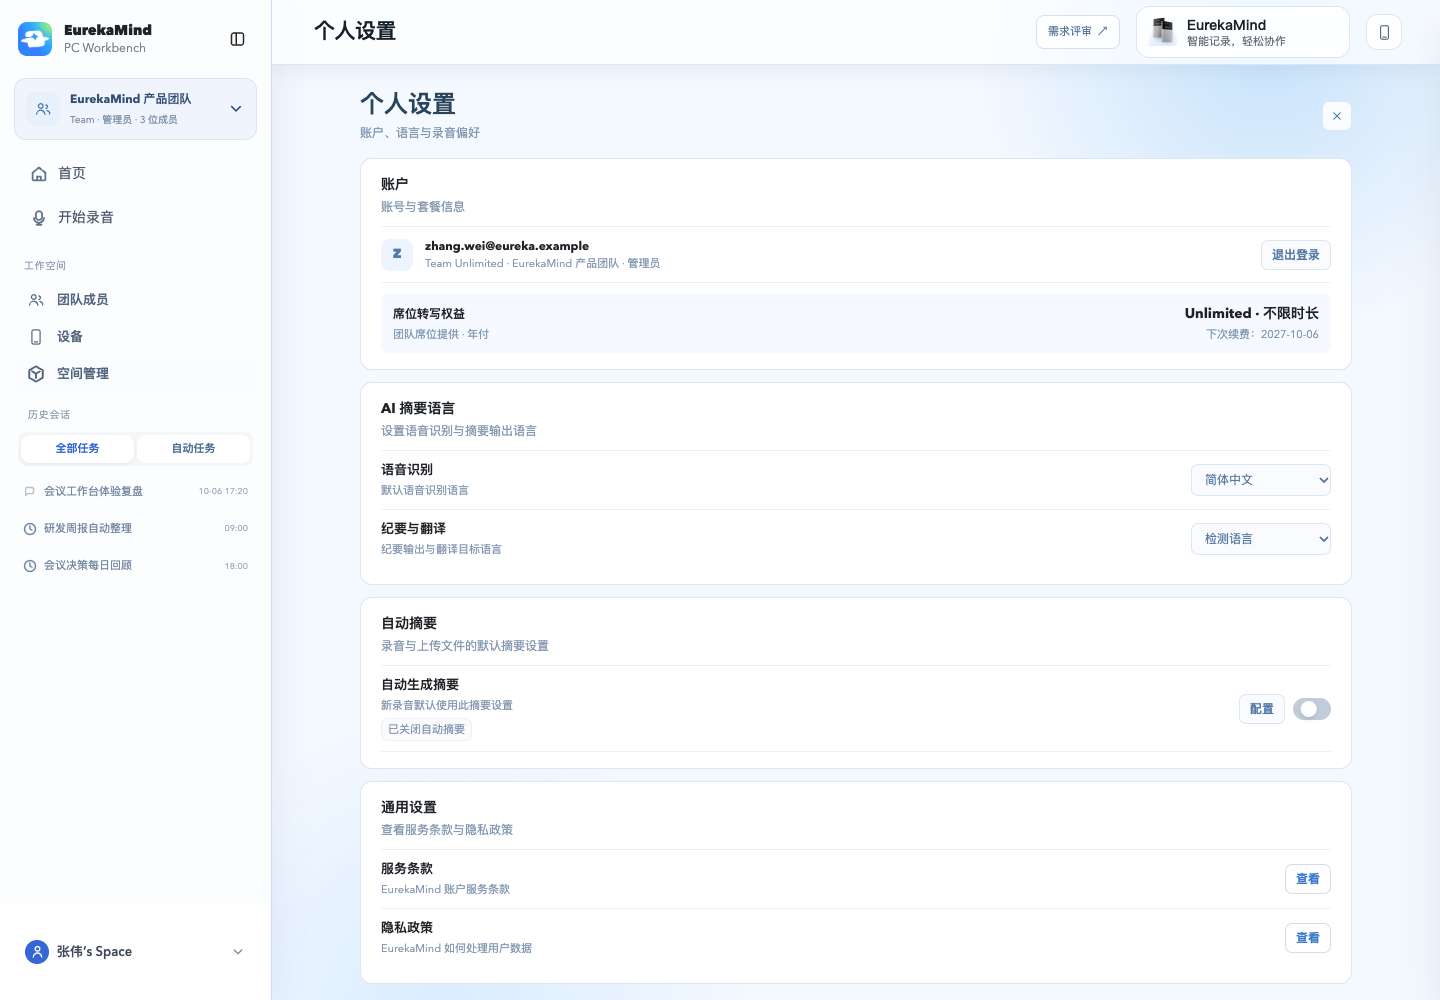
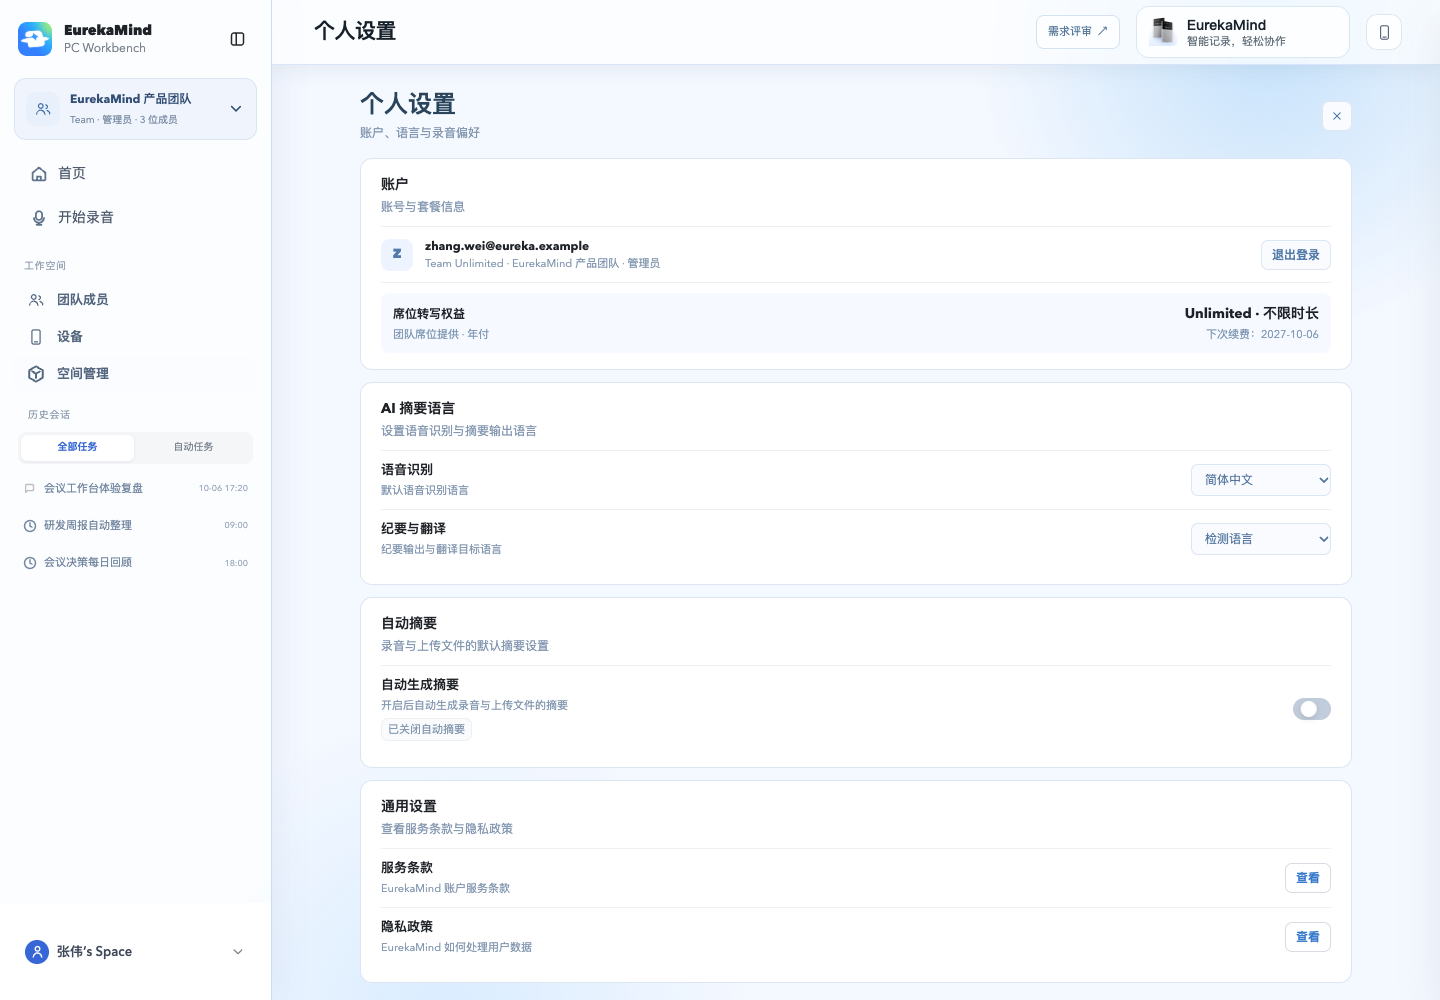
Remove automatic summary configuration from account settings

diff --git a/src/prototype/one-to-one-reference/team-only-app.html b/src/prototype/one-to-one-reference/team-only-app.html
@@ -4993,19 +4993,10 @@
         .settings-language-count { display:inline-flex; min-width:34px; height:28px; align-items:center; justify-content:center; padding:0 8px; border-radius:15px; color:#67717f; background:#f1f4f8; font-size:11px; font-weight:700; }
         .settings-language-select { min-width:150px; height:32px; padding:0 8px; border:1px solid #d9dde3; border-radius:7px; color:#46515e; background:#fff; font-size:11px; }
         .settings-summary-chip { display:block; width:max-content; max-width:100%; margin-top:3px; padding:6px 9px; overflow:hidden; border:1px solid #edf0f3; border-radius:7px; color:#59616b; background:#fafbfc; font-size:10px; text-overflow:ellipsis; white-space:nowrap; }
-        .settings-configure { min-height:30px; padding:0 10px; border:0; border-radius:7px; color:#2684ff; background:#edf6ff; cursor:pointer; font-size:10px; font-weight:650; }
         .settings-switch { display:inline-flex; width:54px; height:30px; align-items:center; padding:4px; border:1px solid #cfd6df; border-radius:18px; background:#eef1f5; cursor:pointer; }
         .settings-switch i { width:20px; height:20px; border-radius:50%; background:#fff; box-shadow:0 2px 6px #1f23282e; transition:transform .16s ease; }
         .settings-switch[aria-checked="true"] { border-color:#165dff; background:#165dff; }
         .settings-switch[aria-checked="true"] i { transform:translateX(22px); }
-        .settings-config-panel { display:grid; gap:9px; margin:0 14px 12px; padding:10px; border:1px solid #e2e7ef; border-radius:8px; background:#fafbfc; }
-        .settings-config-panel[hidden] { display:none; }
-        .settings-config-panel label { display:grid; gap:5px; color:#596477; font-size:10px; }
-        .settings-config-panel .settings-voiceprint-row { display:grid; grid-template-columns:minmax(0,1fr) auto; align-items:center; gap:2px 10px; }
-        .settings-config-copy { grid-column:1; color:#7a828c; font-size:9px; line-height:14px; }
-        .settings-config-panel .settings-voiceprint-row .settings-switch { grid-column:2; grid-row:1 / span 2; }
-        .settings-config-panel select { height:32px; border:1px solid #d9dde3; border-radius:7px; background:#fff; color:#46515e; font-size:10px; }
-        .settings-save { justify-self:end; min-height:30px; padding:0 11px; border:0; border-radius:7px; color:#fff; background:linear-gradient(135deg,#3e72f2,#55c5e2); box-shadow:0 6px 14px rgba(55,102,214,.16); cursor:pointer; font-size:10px; }
         .settings-link { min-height:30px; padding:0 10px; border:1px solid #d9dde3; border-radius:7px; color:#1f2328; background:#fff; font-size:10px; font-weight:650; line-height:28px; text-decoration:none; }
         @media (max-width:600px) { .settings-float-row { align-items:flex-start; flex-direction:column; } .settings-language-control { width:100%; justify-content:space-between; } .settings-language-select { flex:1; } }
         /* Eureka team sidebar: one shared row contract for every first-level entry. */
@@ -5089,7 +5080,7 @@
           <header class="settings-float-toolbar"><div class="settings-float-toolbar-copy"><strong>个人设置</strong><span>账户、语言与录音偏好</span></div><button class="settings-popover-close" type="button" data-settings-close aria-label="返回当前空间首页"><svg class="icon"><use href="#ico-x"/></svg></button></header>
           <section class="settings-float-section"><div class="settings-float-head"><h4>账户</h4><p>账号与套餐信息</p></div><div class="settings-profile"><span class="settings-avatar">Z</span><span><strong>zw08250727@gmail.com</strong><small>免费版 · 个人工作台</small></span><button class="settings-logout" type="button" data-settings-action="logout">退出登录</button></div><div class="settings-usage"><div class="settings-usage-top"><div><strong>转写时长</strong><div class="settings-usage-copy">剩余 99999 分钟，共 99999 分钟</div></div><b>0%</b></div><div class="settings-progress"><i></i></div><div class="settings-usage-meta"><span>已使用 0 分钟</span><span>剩余 99999 分钟</span></div></div></section>
           <section class="settings-float-section"><div class="settings-float-head"><h4>AI 摘要语言</h4><p>设置语音识别与摘要输出语言</p></div><div class="settings-float-row"><div class="settings-row-copy"><strong>语音识别</strong><span>默认语音识别语言</span></div><div class="settings-language-control"><span class="settings-language-count">18</span><select class="settings-language-select" data-settings-language="asr"><option value="en">英语</option><option value="zh-Hans">简体中文</option><option value="zh-Hant">繁体中文</option></select></div></div><div class="settings-float-row"><div class="settings-row-copy"><strong>纪要与翻译</strong><span>纪要输出与翻译目标语言</span></div><div class="settings-language-control"><span class="settings-language-count">156</span><select class="settings-language-select" data-settings-language="notes"><option value="detected">检测语言</option><option value="en">英语</option><option value="zh-Hans">简体中文</option></select></div></div></section>
-          <section class="settings-float-section"><div class="settings-float-head"><h4>自动摘要</h4><p>录音与上传文件的默认摘要设置</p></div><div class="settings-float-row"><div class="settings-row-copy"><strong>自动生成摘要</strong><span data-settings-summary-hint>新录音默认使用此摘要设置</span><span class="settings-summary-chip" data-settings-summary-copy>尚未设置默认偏好</span></div><div class="settings-language-control"><button class="settings-configure" type="button" data-settings-action="configure">配置</button><button class="settings-switch" type="button" role="switch" aria-checked="true" data-settings-action="toggle-summary"><i></i></button></div></div><div class="settings-config-panel" data-settings-config hidden><label>摘要语言<select data-settings-summary-language><option value="detected">检测语言</option><option value="en">英语</option><option value="zh-Hans">简体中文</option></select></label><label>详细程度<select data-settings-summary-detail><option>标准</option><option>精简</option><option>详细</option></select></label><button class="settings-save" type="button" data-settings-action="save-summary">保存默认设置</button></div></section>
+          <section class="settings-float-section"><div class="settings-float-head"><h4>自动摘要</h4><p>录音与上传文件的默认摘要设置</p></div><div class="settings-float-row"><div class="settings-row-copy"><strong>自动生成摘要</strong><span data-settings-summary-hint>开启后自动生成录音与上传文件的摘要</span><span class="settings-summary-chip" data-settings-summary-copy>已开启自动摘要</span></div><div class="settings-language-control"><button class="settings-switch" type="button" role="switch" aria-checked="true" data-settings-action="toggle-summary"><i></i></button></div></div></section>
           <section class="settings-float-section"><div class="settings-float-head"><h4>通用设置</h4><p>查看服务条款与隐私政策</p></div><div class="settings-float-row"><div class="settings-row-copy"><strong>服务条款</strong><span>EurekaMind 账户服务条款</span></div><a class="settings-link" href="https://docs.google.com/document/d/1vvfqgZQDRrdP6dsCJcZFnVmJzjCiojQPqEkJ1gpDXn8/edit?usp=sharing" target="_blank" rel="noreferrer">查看</a></div><div class="settings-float-row"><div class="settings-row-copy"><strong>隐私政策</strong><span>EurekaMind 如何处理用户数据</span></div><a class="settings-link" href="https://docs.google.com/document/d/19zLgiDFfT-ZbY5CSBKqVq6R2zZXUCmNke-k_96XjlKo/edit?usp=sharing" target="_blank" rel="noreferrer">查看</a></div></section>
         </div>`;
         let drawer = document.querySelector("#personal-settings");
@@ -5099,15 +5090,10 @@
         showMainView("personal-settings", {silent:true});
         document.querySelector("#page-crumb").textContent="个人设置";
         document.querySelector("#user-card")?.setAttribute("aria-expanded", "false");
-        const settingsConfig = drawer?.querySelector("[data-settings-config]");
-        settingsConfig?.querySelector("label")?.insertAdjacentHTML("afterend", '<label>摘要模板<select data-settings-summary-template><option value="meeting">会议纪要</option><option value="brief">简洁摘要</option><option value="action">行动项优先</option></select></label><label class="settings-voiceprint-row">声纹识别<span class="settings-config-copy">在支持声纹时区分不同说话人。</span><button class="settings-switch" type="button" role="switch" aria-checked="false" data-settings-voiceprint><i></i></button></label>');
         drawer?.querySelector("[data-settings-close]")?.addEventListener("click", () => { if(document.body.dataset.wsType === "team") window.EurekaSpaces.open("overview"); else showMainView("home", {silent:true}); });
         drawer?.querySelectorAll("[data-settings-language]").forEach((select) => select.addEventListener("change", () => { localStorage.setItem(`eurekamind:settings:${select.dataset.settingsLanguage}`, select.value); showToast("语言设置已保存"); }));
         drawer?.querySelector('[data-settings-action="logout"]')?.addEventListener("click", () => showToast("原型演示：退出登录需要二次确认"));
-        drawer?.querySelector('[data-settings-action="configure"]')?.addEventListener("click", () => { const panel = drawer.querySelector("[data-settings-config]"); if (panel) panel.hidden = !panel.hidden; });
-        drawer?.querySelector('[data-settings-action="toggle-summary"]')?.addEventListener("click", (event) => { const button = event.currentTarget; const enabled = button.getAttribute("aria-checked") === "true"; button.setAttribute("aria-checked", String(!enabled)); const hint = drawer.querySelector("[data-settings-summary-hint]"); const copy = drawer.querySelector("[data-settings-summary-copy]"); if (hint) hint.textContent = enabled ? "关闭后，每次录音都会重新确认摘要偏好" : "新录音默认使用此摘要设置"; if (copy) copy.textContent = enabled ? "尚未设置默认偏好" : "已开启自动摘要"; showToast(enabled ? "自动摘要已关闭" : "自动摘要已开启"); });
-        drawer?.querySelector('[data-settings-action="save-summary"]')?.addEventListener("click", () => { const panel = drawer.querySelector("[data-settings-config]"); if (panel) panel.hidden = true; const copy = drawer.querySelector("[data-settings-summary-copy]"); if (copy) copy.textContent = "已保存默认摘要偏好"; showToast("默认摘要设置已保存"); });
-        drawer?.querySelector('[data-settings-voiceprint]')?.addEventListener("click", (event) => { const button = event.currentTarget; const enabled = button.getAttribute("aria-checked") === "true"; button.setAttribute("aria-checked", String(!enabled)); showToast(!enabled ? "声纹识别已开启" : "声纹识别已关闭"); });
+        drawer?.querySelector('[data-settings-action="toggle-summary"]')?.addEventListener("click", (event) => { const button = event.currentTarget; const enabled = button.getAttribute("aria-checked") === "true"; button.setAttribute("aria-checked", String(!enabled)); const hint = drawer.querySelector("[data-settings-summary-hint]"); const copy = drawer.querySelector("[data-settings-summary-copy]"); if (hint) hint.textContent = "开启后自动生成录音与上传文件的摘要"; if (copy) copy.textContent = enabled ? "已关闭自动摘要" : "已开启自动摘要"; showToast(enabled ? "自动摘要已关闭" : "自动摘要已开启"); });
       };
       window.openUserSettings = openUserSettings;
       document.querySelector("#user-menu")?.addEventListener("click", (event) => { const item = event.target.closest('[data-profile-action="settings"]'); if (!item) return; event.preventDefault(); event.stopImmediatePropagation(); closeUserMenu(); openUserSettings(); }, true);
@@ -5339,7 +5325,7 @@
 <script src="assets/recording-upload.js?v=1"></script>
 <link rel="stylesheet" href="assets/personal-assets.css?v=4">
 <script src="assets/personal-assets-model.js?v=2"></script>
-<script src="assets/personal-assets-ui.js?v=9"></script>
+<script src="assets/personal-assets-ui.js?v=10"></script>
 <link rel="stylesheet" href="assets/thoughts.css?v=3">
 <script src="assets/thoughts-model.js?v=1"></script>
 <script src="assets/thoughts-ui.js?v=2"></script>

diff --git a/tests/e2e/account-settings.spec.ts b/tests/e2e/account-settings.spec.ts
@@ -1,18 +1,18 @@
 import {test,expect,Page} from '@playwright/test';
 test.use({channel:process.env.PLAYWRIGHT_CHANNEL||undefined,viewport:{width:1440,height:1000}});
 const url='/prototype/one-to-one-reference/team-only-app.html?edition=personal&personal=1';
-async function settings(page:Page){await page.locator('#user-card').click();await expect(page.locator('#ws-menu [data-ws-action=settings]')).toHaveText('个人设置');await page.locator('#ws-menu [data-ws-action=settings]').click();await expect(page.locator('#personal-settings')).toBeVisible();await expect(page.locator('#ws-view')).toBeHidden();await expect(page.locator('#page-crumb')).toHaveText('个人设置');}
+async function settings(page:Page){await page.locator('#user-card').click();await expect(page.locator('#ws-menu [data-ws-action=settings]')).toHaveText('个人设置');await page.locator('#ws-menu [data-ws-action=settings]').click();await expect(page.locator('#personal-settings')).toBeVisible();await expect(page.locator('#ws-view')).toBeHidden();await expect(page.locator('#page-crumb')).toHaveText('个人设置');await expect(page.locator('[data-settings-action=configure], [data-settings-config]')).toHaveCount(0);}
 async function switchTo(page:Page,id:string){await page.locator('#ws-switcher').click();await page.locator(`#ws-menu [data-ws-action=switch][data-value=${id}]`).click();}
 async function capture(page:Page,name:string){if(process.env.PRD_CAPTURE){await expect(page.locator('#ws-toast')).not.toBeVisible();await expect(page.locator('#toast')).not.toBeVisible();await page.screenshot({path:`src/prototype/prd/images/${name}.png`});}}
 test('account preferences share one functional page across Personal, Team admin and member',async({page})=>{
- const errors:string[]=[];page.on('pageerror',e=>errors.push(e.message));await page.goto(url);await settings(page);await capture(page,'personal-settings');await page.locator('[data-settings-language=asr]').selectOption('zh-Hans');await page.locator('[data-settings-action=toggle-summary]').click();await page.locator('[data-settings-action=configure]').click();await page.locator('[data-settings-summary-template]').selectOption('action');await page.locator('[data-settings-voiceprint]').click();await page.locator('[data-settings-action=save-summary]').click();
+ const errors:string[]=[];page.on('pageerror',e=>errors.push(e.message));await page.goto(url);await settings(page);await capture(page,'personal-settings');await page.locator('[data-settings-language=asr]').selectOption('zh-Hans');await page.locator('[data-settings-action=toggle-summary]').click();await expect(page.locator('[data-settings-summary-copy]')).toHaveText('已关闭自动摘要');
  await switchTo(page,'team-eureka');await page.locator('#ws-team-nav [data-value=billing]').click();await page.locator('.ws-tabs [data-value=settings]').click();await expect(page.locator('.ws-tabs')).toContainText('空间设置');await expect(page.locator('.ws-tabs')).not.toContainText('通用设置');await expect(page.locator('#ws-view h1')).toHaveText('空间设置');await capture(page,'team-settings');const name=await page.locator('[data-ws-form=settings] [name=name]').inputValue();
- await settings(page);await expect(page.locator('#ws-switcher')).toContainText('EurekaMind 产品团队');await expect(page.locator('[data-settings-language=asr]')).toHaveValue('zh-Hans');await expect(page.locator('[data-settings-action=toggle-summary]')).toHaveAttribute('aria-checked','false');await expect(page.locator('#personal-settings')).not.toContainText('工作空间名称');await capture(page,'team-personal-settings');await page.locator('[data-settings-action=configure]').click();await expect(page.locator('[data-settings-summary-template]')).toHaveValue('action');await expect(page.locator('[data-settings-voiceprint]')).toHaveAttribute('aria-checked','true');await page.locator('[data-settings-language=asr]').selectOption('en');await page.locator('[data-settings-close]').click();await expect(page.locator('#ws-view')).toBeVisible();await expect(page.locator('#personal-settings')).toBeHidden();await expect(page.locator('#ws-view')).toContainText('团队会议');
+ await settings(page);await expect(page.locator('#ws-switcher')).toContainText('EurekaMind 产品团队');await expect(page.locator('[data-settings-language=asr]')).toHaveValue('zh-Hans');await expect(page.locator('[data-settings-action=toggle-summary]')).toHaveAttribute('aria-checked','false');await expect(page.locator('#personal-settings')).not.toContainText('工作空间名称');await capture(page,'team-personal-settings');await page.locator('[data-settings-language=asr]').selectOption('en');await page.locator('[data-settings-close]').click();await expect(page.locator('#ws-view')).toBeVisible();await expect(page.locator('#personal-settings')).toBeHidden();await expect(page.locator('#ws-view')).toContainText('团队会议');
  await page.locator('#ws-team-nav [data-value=billing]').click();await page.locator('.ws-tabs [data-value=settings]').click();await expect(page.locator('[data-ws-form=settings] [name=name]')).toHaveValue(name);
- await switchTo(page,'team-design');await expect(page.locator('#ws-team-nav')).not.toContainText('空间管理');await settings(page);await expect(page.locator('[data-settings-language=asr]')).toHaveValue('en');await page.locator('[data-settings-language=notes]').selectOption('zh-Hans');await page.reload();await settings(page);await expect(page.locator('[data-settings-language=notes]')).toHaveValue('zh-Hans');await page.locator('[data-settings-close]').click();await expect(page.locator('#ws-view')).toBeVisible();await expect(page.locator('#ws-switcher')).toContainText('设计共创空间');await switchTo(page,'personal');await settings(page);await expect(page.locator('[data-settings-language=notes]')).toHaveValue('zh-Hans');await page.locator('[data-settings-close]').click();await expect(page.locator('#today-assets-grid')).toBeVisible();expect(errors).toEqual([]);
+ await switchTo(page,'team-design');await expect(page.locator('#ws-team-nav')).not.toContainText('空间管理');await settings(page);await expect(page.locator('[data-settings-language=asr]')).toHaveValue('en');await page.locator('[data-settings-language=notes]').selectOption('zh-Hans');await page.reload();await settings(page);await expect(page.locator('[data-settings-action=toggle-summary]')).toHaveAttribute('aria-checked','false');await expect(page.locator('[data-settings-language=notes]')).toHaveValue('zh-Hans');await page.locator('[data-settings-close]').click();await expect(page.locator('#ws-view')).toBeVisible();await expect(page.locator('#ws-switcher')).toContainText('设计共创空间');await switchTo(page,'personal');await settings(page);await expect(page.locator('[data-settings-language=notes]')).toHaveValue('zh-Hans');await page.locator('[data-settings-close]').click();await expect(page.locator('#today-assets-grid')).toBeVisible();expect(errors).toEqual([]);
 });
 test('compact preferences remain usable at desktop and phone widths in either workspace',async({page})=>{
- await page.goto(url);for(const space of ['personal','team-eureka']){await switchTo(page,space);await settings(page);await page.locator('[data-settings-action=configure]').click();for(const width of [1440,1024,390]){await page.setViewportSize({width,height:1000});expect(await page.evaluate(()=>document.documentElement.scrollWidth)).toBeLessThanOrEqual(width+1);const panel=page.locator('#personal-settings');expect(await panel.evaluate(el=>el.scrollWidth<=el.clientWidth)).toBeTruthy();await page.locator('[data-settings-summary-detail]').selectOption('精简');await expect(page.locator('[data-settings-summary-detail]')).toHaveValue('精简');await page.locator('[data-settings-close]').scrollIntoViewIfNeeded();await expect(page.locator('[data-settings-close]')).toBeInViewport();}await page.setViewportSize({width:1440,height:1000});}
+ await page.goto(url);for(const space of ['personal','team-eureka']){await switchTo(page,space);await settings(page);for(const width of [1440,1024,390]){await page.setViewportSize({width,height:1000});expect(await page.evaluate(()=>document.documentElement.scrollWidth)).toBeLessThanOrEqual(width+1);const panel=page.locator('#personal-settings');expect(await panel.evaluate(el=>el.scrollWidth<=el.clientWidth)).toBeTruthy();await page.locator('[data-settings-language=notes]').selectOption('en');await expect(page.locator('[data-settings-language=notes]')).toHaveValue('en');await page.locator('[data-settings-close]').scrollIntoViewIfNeeded();await expect(page.locator('[data-settings-close]')).toBeInViewport();}await page.setViewportSize({width:1440,height:1000});}
 });
 test('account plan follows the active team, subscription status and personal workspace',async({page})=>{
  await page.goto(url);await settings(page);await expect(page.locator('.settings-profile small')).toHaveText('标准版 · 个人工作空间');await expect(page.locator('.settings-usage')).toContainText('400 分钟');

diff --git a/src/prototype/one-to-one-reference/assets/personal-assets-ui.js b/src/prototype/one-to-one-reference/assets/personal-assets-ui.js
@@ -135,10 +135,10 @@
     }
     $('.settings-float-toolbar-copy strong',page).textContent='个人设置';$('.settings-float-toolbar-copy span',page).textContent='账户、语言与录音偏好';
     $('[data-settings-close]',page).setAttribute('aria-label','返回当前空间首页');
-    const attrs=['language','summary-language','summary-detail','summary-template'];
+    const attrs=['language'];
     for(const attr of attrs)$$(`[data-settings-${attr}]`,page).forEach(el=>{const key=attr==='language'?el.dataset.settingsLanguage:attr;let val=prefs[key];if(val===undefined&&attr==='language')val=localStorage.getItem('eurekamind:settings:'+key);if(val!==undefined&&val!==null)el.value=val;el.addEventListener('change',event=>{event.stopImmediatePropagation();try{repo.settings({[key]:el.value});showToast('偏好已保存');}catch(e){showToast(e.message);}},{capture:true});});
-    for(const [sel,key,def] of [['[data-settings-action="toggle-summary"]','autoSummary',true],['[data-settings-voiceprint]','voiceprint',false]]){const el=$(sel,page);el.setAttribute('aria-checked',String(prefs[key]??def));el.setAttribute('aria-label',key==='autoSummary'?'自动生成摘要':'声纹识别');el.addEventListener('click',()=>{try{repo.settings({[key]:el.getAttribute('aria-checked')==='true'});}catch(e){el.setAttribute('aria-checked',String(prefs[key]??def));showToast(e.message);}});}
-    const summary=$('[data-settings-summary-copy]',page);if(summary)summary.textContent=prefs.autoSummary===false?'已关闭自动摘要':prefs['summary-template']?'已保存默认摘要偏好':'新录音使用默认摘要偏好';
+    for(const [sel,key,def] of [['[data-settings-action="toggle-summary"]','autoSummary',true]]){const el=$(sel,page);el.setAttribute('aria-checked',String(prefs[key]??def));el.setAttribute('aria-label','自动生成摘要');el.addEventListener('click',()=>{try{repo.settings({[key]:el.getAttribute('aria-checked')==='true'});}catch(e){el.setAttribute('aria-checked',String(prefs[key]??def));showToast(e.message);}});}
+    const summary=$('[data-settings-summary-copy]',page);if(summary)summary.textContent=prefs.autoSummary===false?'已关闭自动摘要':'已开启自动摘要';
     $('[data-settings-action="logout"]',page).onclick=()=>modal('退出登录？','<p>当前个人记录会保留在此浏览器。</p>','退出登录',()=>location.replace(new URL('../auth-shell.html',location.href).href));
   }
   const oldSettings=window.openUserSettings;window.openUserSettings=()=>{if(guard(()=>window.openUserSettings()))return;hideAgent();oldSettings();setupSettings();};
